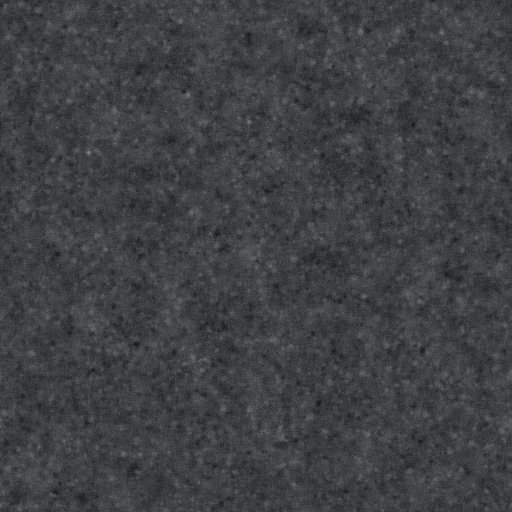
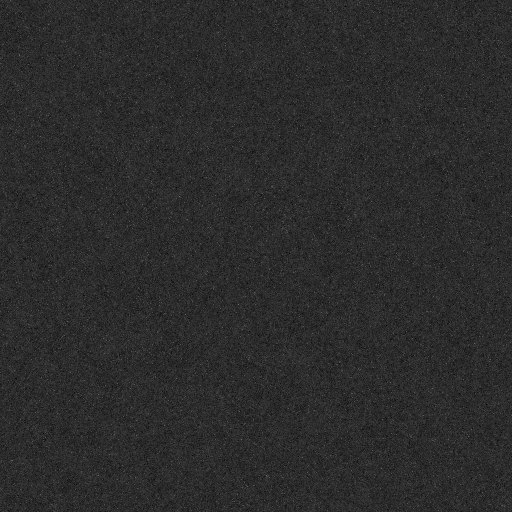
💄 feat(game): make the road near-black asphalt with worn paint markings
Matches the reference: a darker, finely grained asphalt texture, white
dashed lines between lanes and solid yellow lines along both edges. The
markings are their own tiling textures (raw_assets/images/marking_*.png)
with gritty paint and worn edges, so the grain shows through like real
road paint. Adds the road-edge token.

diff --git a/src/app/game/BoardView.ts b/src/app/game/BoardView.ts
@@ -27,11 +27,12 @@ const TRAFFIC = {
 /** The next lane is kept at this share of the board width. */
 const FOCUS = 0.35;
 /**
- * Road markings, white paint as on a real road: dashed lines between lanes, solid lines along
- * both edges, inset from the kerb. Px; dashes line up across lanes.
+ * Road markings, worn paint as on a real road: white dashed lines between lanes, solid yellow
+ * lines along both edges, inset from the kerb. Each is a vertically tiling texture
+ * (raw_assets/images/marking_*.png, 2×) as wide as the line; dashes line up across lanes.
  */
-const MARKING = { width: 4, dash: 28, gap: 24, edgeInset: 6 } as const;
-/** The asphalt texture is authored at 2× (raw_assets/images/asphalt.jpg). */
+const MARKING = { width: 6, edgeInset: 8 } as const;
+/** Road textures (raw_assets/images: asphalt, markings) are authored at 2×. */
 const ASPHALT_RESOLUTION = 2;
 /** The chicken's size against its art (raw_assets/game/chicken.png). */
 const CHICKEN_SIZE = 1.35;
@@ -73,7 +74,7 @@ export class BoardView extends View {
     private readonly asphalt = new TilingSprite({
         texture: di.get<Sprite>(Picture.asphalt).texture,
     });
-    private readonly markings = new Graphics();
+    private readonly markings = new Container();
     private readonly lanesLayer = new Container();
     private readonly traffic = new Container();
     private readonly splat = new Container();
@@ -492,16 +493,22 @@ export class BoardView extends View {
     }
 
     private drawMarkings(end: number): void {
-        const { width, dash, gap, edgeInset } = MARKING;
-        const paint = COLOR['road-dash'];
-        const g = this.markings.clear();
-        g.rect(CURB + edgeInset, 0, width, this.h).fill(paint);
-        g.rect(end - edgeInset - width, 0, width, this.h).fill(paint);
+        const { width, edgeInset } = MARKING;
+        for (const line of this.markings.removeChildren()) line.destroy();
+        const line = (picture: string, x: number): void => {
+            const sprite = new TilingSprite({
+                texture: di.get<Sprite>(picture).texture,
+                width,
+                height: this.h,
+            });
+            sprite.tileScale.set(1 / ASPHALT_RESOLUTION);
+            sprite.x = x;
+            this.markings.addChild(sprite);
+        };
+        line(Picture.markingEdge, CURB + edgeInset);
+        line(Picture.markingEdge, end - edgeInset - width);
         for (let i = 1; i < this.lanes.length; i++) {
-            const x = CURB + i * this.laneW - width / 2;
-            for (let y = gap / 2; y < this.h; y += dash + gap) {
-                g.rect(x, y, width, Math.min(dash, this.h - y)).fill(paint);
-            }
+            line(Picture.markingDash, CURB + i * this.laneW - width / 2);
         }
     }
 

diff --git a/src/app/ui/tokens.ts b/src/app/ui/tokens.ts
@@ -96,10 +96,12 @@ export const COLOR = {
     'car-magenta': { color: 0xde3db2, alpha: 1 },
     /** Car body; also the 'boss' truck on Hardcore. */
     'car-violet': { color: 0x7d2efa, alpha: 1 },
-    /** Asphalt base under the road texture (raw_assets/images/asphalt.jpg averages to it). One grey for every lane. */
-    'road-asphalt': { color: 0x41444a, alpha: 1 },
-    /** Road markings, white paint as on a real road: dashed lines between lanes, solid lines along both edges. Decorative only. */
-    'road-dash': { color: 0xeceef0, alpha: 1 },
+    /** Asphalt: near-black with a fine grain (raw_assets/images/asphalt.jpg averages to it). One colour for every lane. */
+    'road-asphalt': { color: 0x2c2c2d, alpha: 1 },
+    /** White paint of the dashed lines between lanes (raw_assets/images/marking_dash.png): gritty, worn edges, the asphalt grain showing through. */
+    'road-dash': { color: 0xececec, alpha: 1 },
+    /** Yellow paint of the solid lines along both road edges (raw_assets/images/marking_edge.png). */
+    'road-edge': { color: 0xe0a21b, alpha: 1 },
     /** Concrete kerb between the grass verges and the road. */
     'road-curb': { color: 0x7c8189, alpha: 1 },
     /** Manhole cover fill — the tap target in each unopened lane, multiplier printed on it. */

diff --git a/docs/design/tokens.css b/docs/design/tokens.css
@@ -47,8 +47,9 @@
     --car-gold: #b18119;
     --car-magenta: #de3db2;
     --car-violet: var(--primary-500);
-    --road-asphalt: #41444a;
-    --road-dash: #eceef0;
+    --road-asphalt: #2c2c2d;
+    --road-dash: #ececec;
+    --road-edge: #e0a21b;
     --road-curb: #7c8189;
     --manhole: #2b3646;
     --manhole-groove: #1c2532;

diff --git a/docs/design/components/Lane.md b/docs/design/components/Lane.md
@@ -14,7 +14,7 @@ One vertical road lane. Cars drive top to bottom, and a manhole cover sits mid-l
 
 - Only the **next** lane is interactive. Tapping further ahead does nothing (optionally a small shake).
 - Cars use the `car-*` palette and only appear in locked lanes. A cleared lane never shows a car, because the barrier visually stops it.
-- The road is one rough grey asphalt (texture `raw_assets/images/asphalt.jpg` over `road-asphalt`), the same for every lane. Markings are white paint (`road-dash`), as on a real road: 4px dashed lines (28 on, 24 off) between lanes, solid lines along both edges, inset 6px from the concrete kerb (`road-curb`).
+- The road is near-black asphalt with a fine grain (`raw_assets/images/asphalt.jpg`, `road-asphalt`), the same for every lane. Markings are gritty, worn paint like a real road: white dashed lines between lanes (`marking_dash.png`, `road-dash`, 6px, 44 on / 28 off) and solid yellow lines along both edges (`marking_edge.png`, `road-edge`), inset 8px from the concrete kerb (`road-curb`).
 - The lane-counter badge (`.ccr-badge-lane`, top right, `grass-400`) shows progress: _Lane 5_.
 - `lane-width` is 120px (80px on mobile). The board scrolls horizontally so the next lane stays at about 35% from the left.
 - The CSS chicken, car, coin and barrier shapes are layout placeholders. Ship sprite or Spine art in the README's art style.
